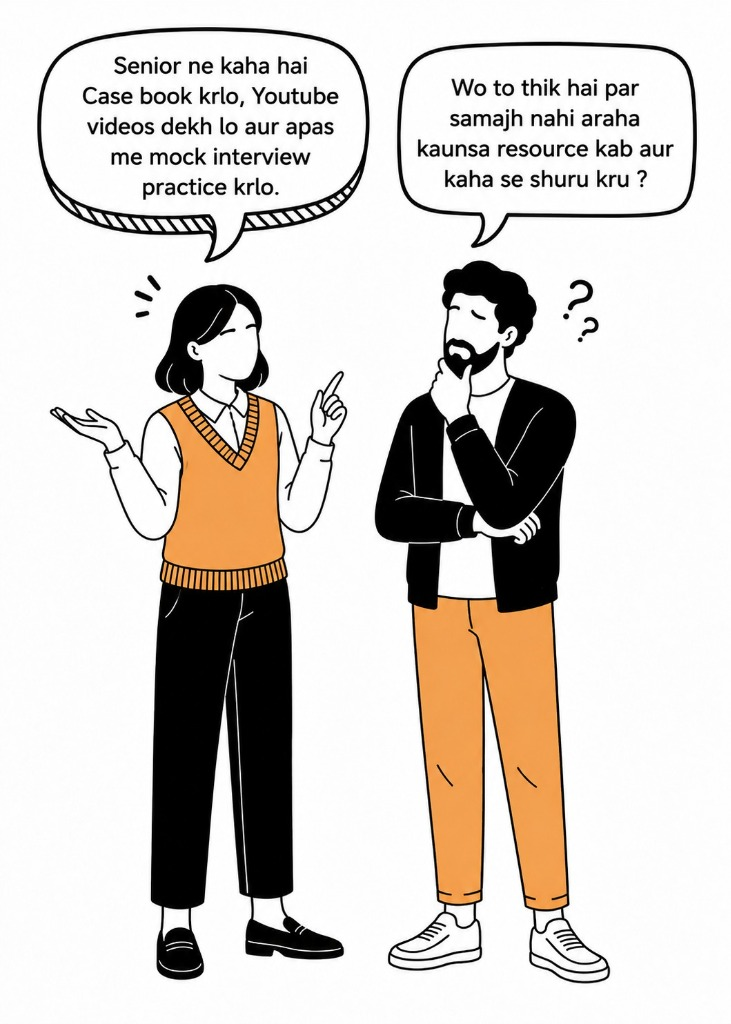
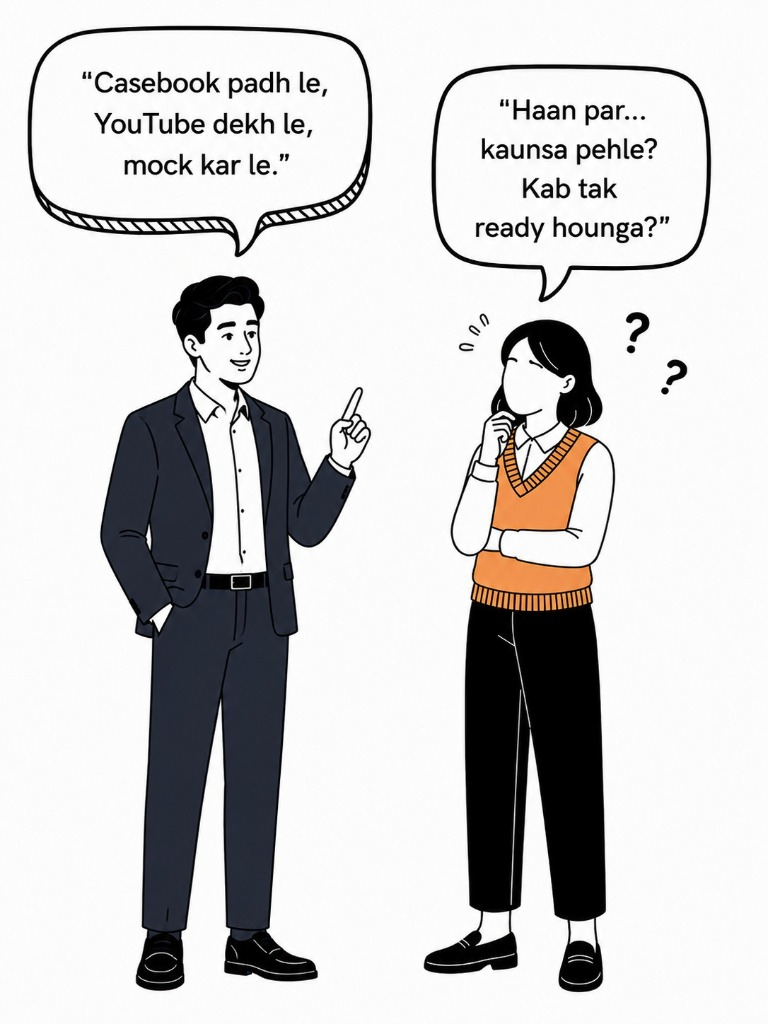
feat: change student page hero image to the 5 given comic panels

diff --git a/landing/StudentsBrutalism.tsx b/landing/StudentsBrutalism.tsx
@@ -238,11 +238,13 @@ export function StudentsLandingPage() {
             </span>
           </h1>
 
-          <div className="grid grid-cols-1 md:grid-cols-3 gap-6 w-full max-w-6xl mx-auto select-none mb-12">
+          <div className="grid grid-cols-1 sm:grid-cols-2 md:grid-cols-5 gap-4 w-full max-w-6xl mx-auto select-none mb-12">
             {[
-              { src: "/student-comic-1.jpg", alt: "Placement prep confusion" },
-              { src: "/student-comic-2.jpg", alt: "Mock interviews & case books" },
-              { src: "/student-comic-3.jpg", alt: "Discovering PM-X First Step masterclass" }
+              { src: "/student-comic-1.jpg", alt: "Placement season anxiety" },
+              { src: "/student-comic-2.jpg", alt: "Conflicting advice from peers" },
+              { src: "/student-comic-3.jpg", alt: "Unstructured prep confusion" },
+              { src: "/student-comic-4.jpg", alt: "Discovering structured PM-X path" },
+              { src: "/student-comic-5.jpg", alt: "Placement ready success" }
             ].map((img, idx) => (
               <div 
                 key={idx} 